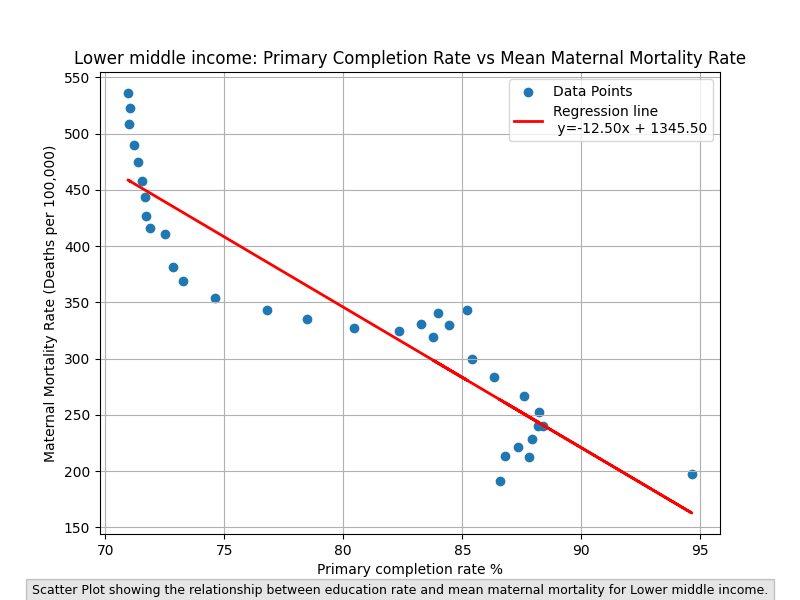
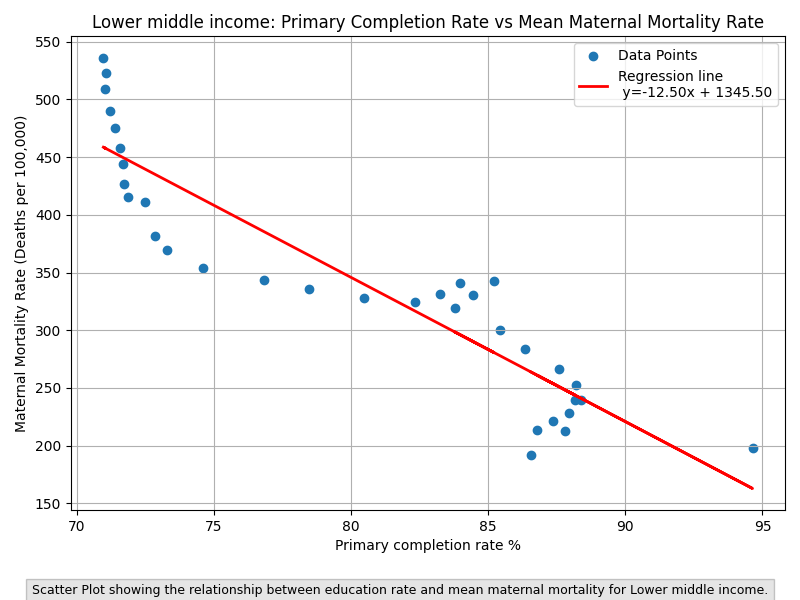
modification: fixed the caption spacing for the graphs

diff --git a/mainCode.py b/mainCode.py
@@ -232,10 +232,13 @@ def plot_scatter_poverty_mmr():
     plt.title('Global Poverty Rate vs Global Maternal Mortality Rate')
     plt.xlabel('Poverty Rate %')
     plt.ylabel('Maternal Mortality Rate (Deaths per 100,000)')
-    txt="Scatter Plot showing the relationship between global poverty rate and maternal mortality rate on a Global Scale."
+    txt="Scatter Plot showing the relationship between global poverty rate and maternal mortality ratio on a Global Scale."
     plt.figtext(0.5, 0.01, txt, wrap=True, horizontalalignment='center', fontsize=9, bbox ={'facecolor':'grey', 'alpha':0.2})
     plt.grid(True)
     plt.legend()
+    plt.tight_layout()
+    # Reserve space at the bottom for caption
+    plt.subplots_adjust(bottom=0.15)
     plt.savefig(f"{figures_directory}/scatter_global_poverty_vs_mmr.png")
     plt.show()
 
@@ -286,9 +289,13 @@ def plot_bubble_plot():
     plt.xlabel('Poverty Rate %')
     plt.ylabel('Maternal Mortality Rate (Deaths per 100,000)')
     plt.legend()
-    txt="Bubble Plot showing the relationship between poverty rate, education completion and maternal mortality rate on a Global Scale."
+    txt="Bubble Plot showing the relationship between poverty rate, education completion and maternal mortality ratio on a Global Scale."
     plt.figtext(0.5, 0.01, txt, wrap=True, horizontalalignment='center', fontsize=9, bbox ={'facecolor':'grey', 'alpha':0.2})
     plt.grid(True)
+    plt.tight_layout()
+    # Reserve space at the bottom for caption
+    plt.subplots_adjust(bottom=0.15)
+
     plt.savefig(f"{figures_directory}/bubble_global_poverty_vs_mmr.png")
     plt.show()
 
@@ -327,48 +334,17 @@ def box_plots():
     0.02, 70, 'mmr = 70',
     verticalalignment='bottom', bbox ={'facecolor':'grey', 'alpha':0.2})
 
-    txt="Box Plots showing the distribution of maternal mortality in different income group in 2023. Each data point represent a country."
+    txt="Box Plots showing the distribution of maternal mortality ratio in different income group in 2023. Each data point represent a country."
     plt.figtext(0.5, 0.01, txt, wrap=True, horizontalalignment='center', fontsize=9, bbox ={'facecolor':'grey', 'alpha':0.2})
     plt.grid(axis="y")
+    plt.tight_layout()
+    # Reserve space at the bottom for caption
+    plt.subplots_adjust(bottom=0.15)
+
     plt.savefig(f"{figures_directory}/boxplot_income_education_vs_mmr.png")
     plt.show()
 
     return merged_df
-
-
-#=== INCOME GROUP MMR TIME SERIES ===
-def plot_time_income_mmr_series():
-
-    """
-
-    Creates a timeseries plotting MMR by income group
-
-    """
-
-    mmr_df = mmr_df_income.copy()
-    mmr_df["Year"] = pd.to_numeric(mmr_df["Year"], errors="coerce")
-    mmr_df = mmr_df.sort_values("Year") # Organises Year to prevent spaghetti time series
-
-    df = mmr_df.dropna(subset=["Year", "Mean_MMR", "Income group"])
-
-    income_groups = mmr_df["Income group"].unique()
-
-    for income_group in income_groups:
-        group_df = df[df["Income group"] == income_group]
-        group_df = group_df.sort_values("Year")
-
-        plt.plot(
-            group_df["Year"],
-            group_df["Mean_MMR"],
-            label=income_group
-        )
-
-    plt.title(f"{income_group}: Time Series on Global Maternal Moratlity Rate {start_year}-{max_year}")  
-    plt.xlabel('Year')
-    plt.ylabel('Maternal Mortality Rate (Deaths per 100,000)')
-    plt.legend()
-    plt.savefig(f"{figures_directory}/timeseries_income_mmr.png")
-    plt.show()
 
 
 #=== INCOME GROUP SCATTER PLOT ===
@@ -420,10 +396,14 @@ def plot_income_group_scatter(income_group):
     plt.title(f'{income_group}: Primary Completion Rate vs Mean Maternal Mortality Rate')
     plt.xlabel('Primary completion rate %')
     plt.ylabel('Maternal Mortality Rate (Deaths per 100,000)')
-    txt=f"Scatter Plot showing the relationship between education rate and mean maternal mortality for {income_group}."
+    txt=f"Scatter Plot showing the relationship between education rate and mean maternal mortality ratio for {income_group}."
     plt.figtext(0.5, 0.01, txt, wrap=True, horizontalalignment='center', fontsize=9, bbox ={'facecolor':'grey', 'alpha':0.2})
     plt.grid(True)
     plt.legend()
+    plt.tight_layout()
+    # Reserve space at the bottom for caption
+    plt.subplots_adjust(bottom=0.15)
+
     plt.savefig(f"{figures_directory}/timeseries_{income_group}_mmr.png")
     plt.show()
 
@@ -451,8 +431,12 @@ def plot_high_low_income_scatter():
     ax_high.legend()
     ax_low.legend() 
     plt.tight_layout()
-    txt="Scatter Plot showing the relationship between education completion and maternal mortality rate in High and Low Income Groups."
+    txt="Scatter Plot showing the relationship between education completion and maternal mortality ratio in High and Low Income Groups."
     plt.figtext(0.5, 0.01, txt, wrap=True, horizontalalignment='center', fontsize=9, bbox ={'facecolor':'grey', 'alpha':0.2})
+    plt.tight_layout()
+    # Reserve space at the bottom for caption
+    plt.subplots_adjust(bottom=0.15)
+
     plt.savefig(f"{figures_directory}/scatter_high_low_pov_mmr.png")
     plt.show()
 
@@ -536,6 +520,8 @@ def plot_world_nigeria_timeseries():
     ax_nigeria.legend()
     
     plt.tight_layout()
+    # Reserve space at the bottom for caption
+    plt.subplots_adjust(bottom=0.10)
 
     txt="Timeseries showing maternal mortality ratio overtime Globally and in Nigeria."
     plt.figtext(0.5, 0.01, txt, wrap=True, horizontalalignment='center', fontsize=9, bbox ={'facecolor':'grey', 'alpha':0.2})
@@ -663,38 +649,36 @@ poverty_df_world, education_df_world, mmr_df_world = world_filters("Country", "W
 
 if __name__ == "__main__":
     
-    # pov_2023_column = percentage_pop_poverty()
-    # print (pov_2023_column)
+    pov_2023_column = percentage_pop_poverty()
+    print (pov_2023_column)
 
     plot_world_nigeria_mmr = plot_world_nigeria_timeseries()
     print(plot_world_nigeria_mmr)
 
 
-    # mmr_2023_value, percentage_lmic = get_global_mmr_values()
-    # print(f"mmr 2023 value is {mmr_2023_value}") 
-    # print(f"Percentage of mmr in LMICs {percentage_lmic}")
-    # # Plots scatter plot for poverty and mmr globally 
+    mmr_2023_value, percentage_lmic = get_global_mmr_values()
+    print(f"mmr 2023 value is {mmr_2023_value}") 
+    print(f"Percentage of mmr in LMICs {percentage_lmic}")
+    # Plots scatter plot for poverty and mmr globally 
 
-    # X_1D, X, merged_df, slope , correlation_coefficient , r_squared_value = plot_scatter_poverty_mmr()
-    # print(f"Slope for Global Poverty vs Global mmr: {slope}")
-    # print(f"Correlation Coefficient for Global Poverty vs Global mmr: {correlation_coefficient}")
-    # print(f"R squared value for Global Poverty vs Global mmr: {r_squared_value}")
+    X_1D, X, merged_df, slope , correlation_coefficient , r_squared_value = plot_scatter_poverty_mmr()
+    print(f"Slope for Global Poverty vs Global mmr: {slope}")
+    print(f"Correlation Coefficient for Global Poverty vs Global mmr: {correlation_coefficient}")
+    print(f"R squared value for Global Poverty vs Global mmr: {r_squared_value}")
 
-    # # Plots bubble plot for global data
-    # bubble_plot= plot_bubble_plot()
+    # Plots bubble plot for global data
+    bubble_plot= plot_bubble_plot()
 
-    # # Plots Income groups graphs
-    # income_groups = mmr_df_income["Income group"].unique()
-    # for income_group in income_groups:
-    #     merged_df, r_value, r_squared_value = plot_income_group_scatter(income_group)
-    #     print(f"{income_group}'s correlation is : {r_value}")
+    # Plots Income groups graphs
+    income_groups = mmr_df_income["Income group"].unique()
+    for income_group in income_groups:
+        merged_df, r_value, r_squared_value = plot_income_group_scatter(income_group)
+        print(f"{income_group}'s correlation is : {r_value}")
 
-    # high_low_scatter = plot_high_low_income_scatter()
+    high_low_scatter = plot_high_low_income_scatter()
 
-    # plot = plot_time_income_mmr_series()
-    # print(plot)
 
-    # box_plot = box_plots()
-    # print(box_plot)
+    box_plot = box_plots()
+    print(box_plot)
 
-    # highest = highest_mmr_by_year()
+    highest = highest_mmr_by_year()
